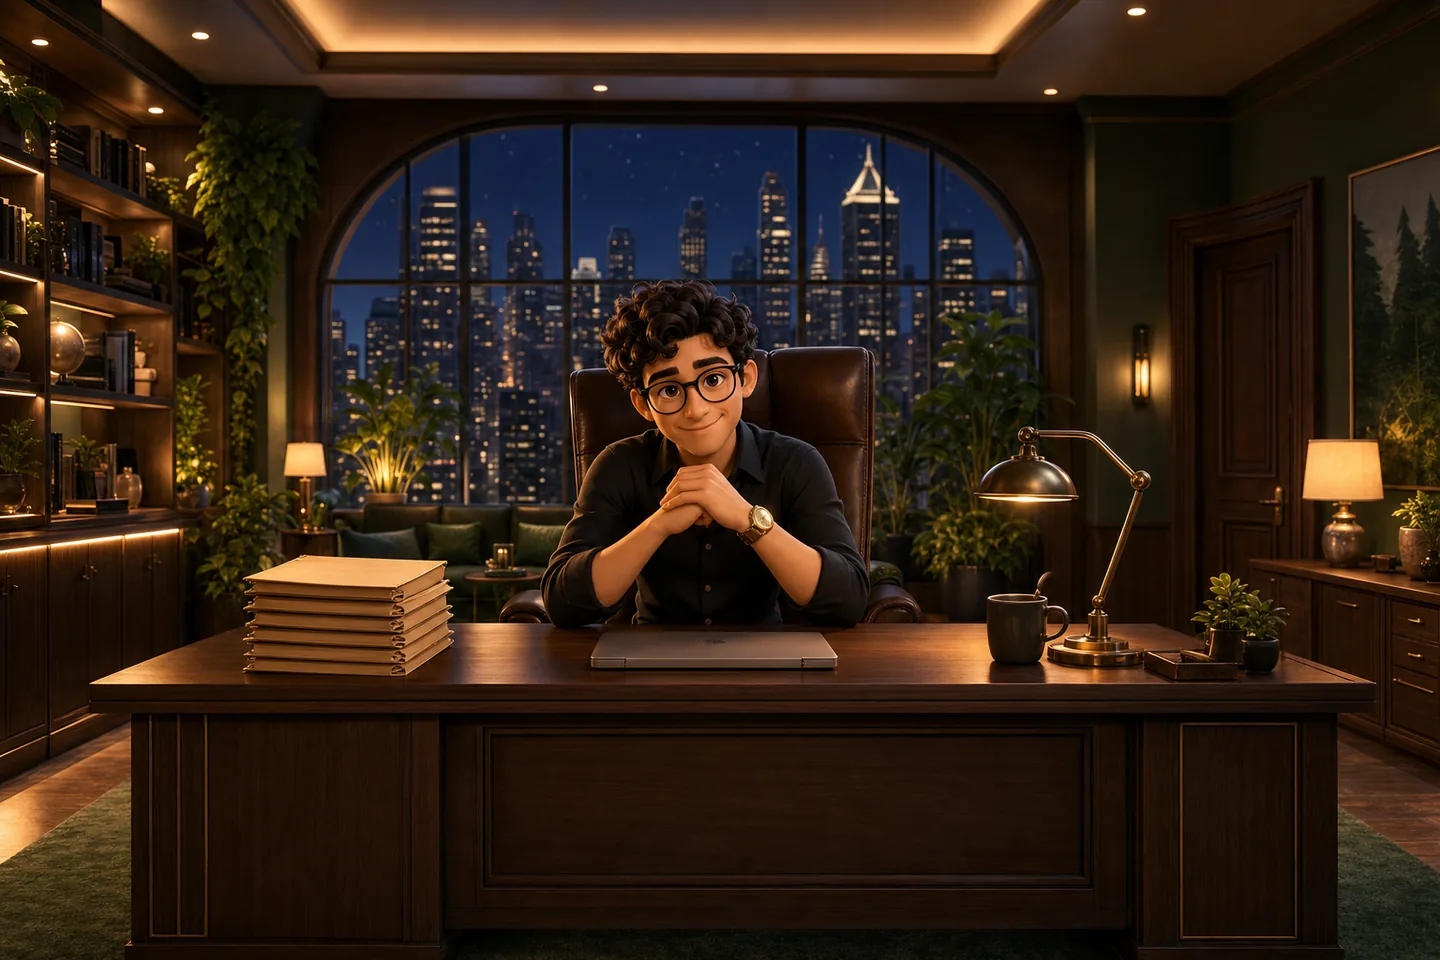
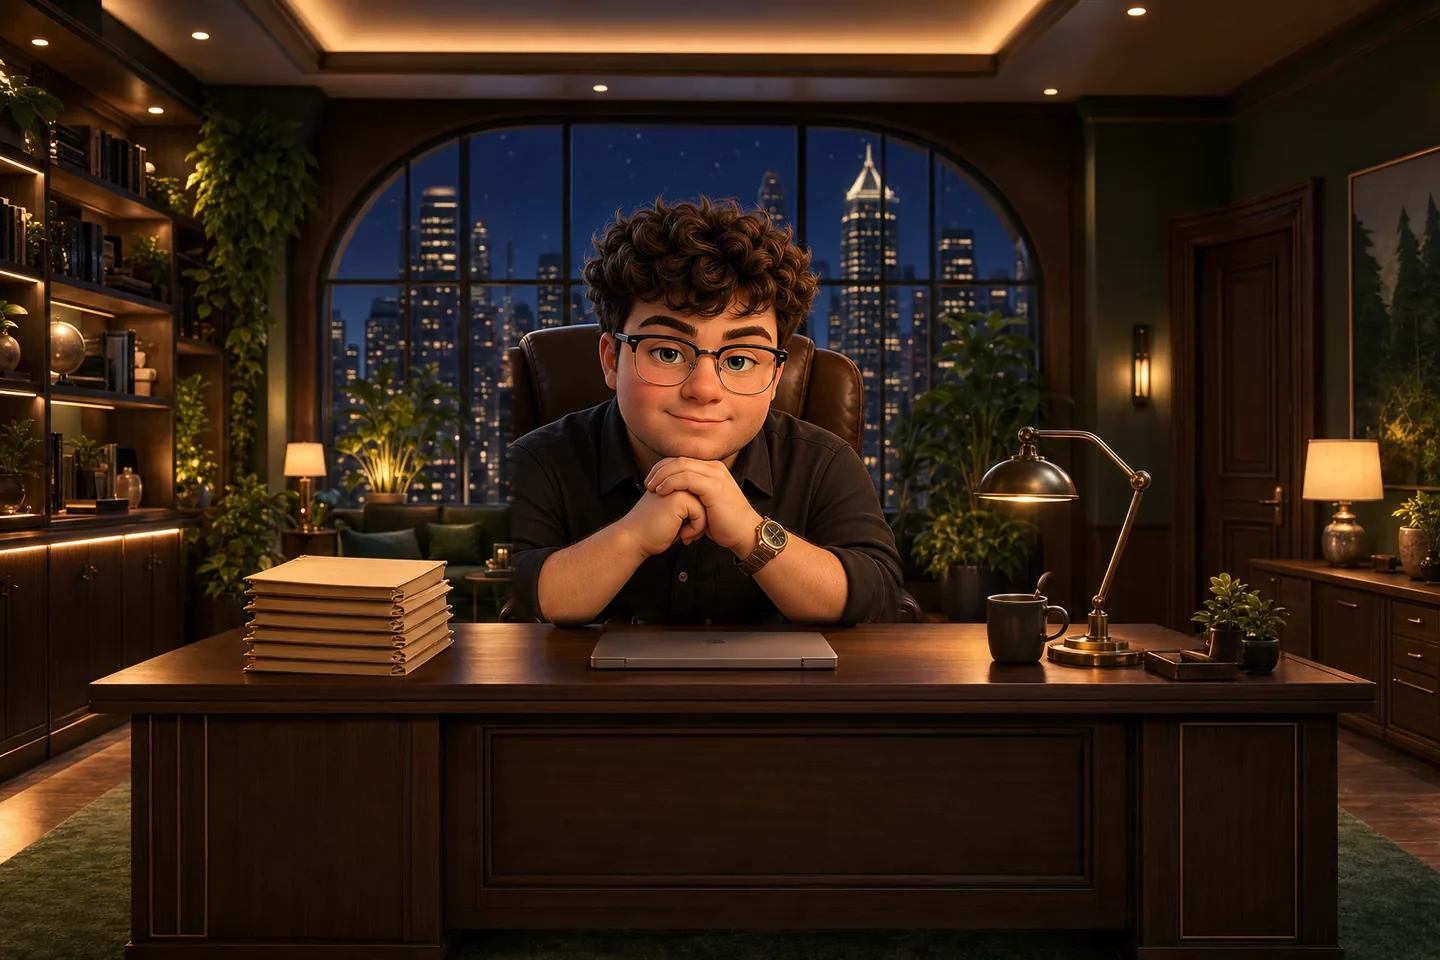
HQ: the CEO in the penthouse looks like the owner
Redrawn from the owner's two photos (fair skin, blue-grey eyes, dark curls, browline glasses) with one masked
gpt-image-2 edit; only the person changed, so the room, the desk pile under the Your desk button and the card
corner are the original pixels. ADR 0029 addendum 3.

Claude-Session: https://claude.ai/code/session_01Mhcz6BtYDPTHBytp9oyjLZ

Changed region(s): [[0.3438, 0.1875, 0.625, 0.6562]]

diff --git a/docs/adr/0029-hq-coo-desk.md b/docs/adr/0029-hq-coo-desk.md
@@ -161,3 +161,11 @@ The owner: "make sure when i start a task it loads the correct chat with the cor
 - **The mission page of a desk file** starts and continues it exactly like the desk.
 - **A desk task's own chat** has no department of its own. The office shows the task title alone, not "(in Untitled chat)".
 - **Unchanged:** HQ only builds links. It never starts, reads or drives a chat, and never uses the owner's login. The COO's round prompts need no change: their progress relay no longer moves a task.
+
+## Addendum 3 (owner, 2026-11-07): the CEO looks like the owner
+The owner: "my character looks nothing like me." The CEO in `penthouse.webp` was drawn without the owner's photos (tan skin, brown eyes, round wire glasses, a slim face). It was redrawn from the two photos the owner sent on 2026-11-06:
+- **What it shows now:** fair skin with rosy cheeks, light blue-grey eyes, thick dark eyebrows, full dark brown curls over the forehead, a fuller face, and browline glasses (a black top bar, thin metal rims below).
+- **The same pose and outfit:** hands clasped, black shirt, gold watch.
+- **How:** one masked edit with `gpt-image-2` (medium quality; high quality timed out at the proxy). The inputs were the picture, a mask over the person only, the two photos for the likeness, and the Engineering room's picture as the style reference. Three versions were made, and the closest was kept (blue-grey eyes, fair skin).
+- **Only the person changed.** The generated person was put back on the original picture with a feathered edge, so the room, the pile of files under the "Your desk" button and the business card corner are the original pixels.
+- **Later pictures of the CEO** use the same two photos as the likeness reference.
